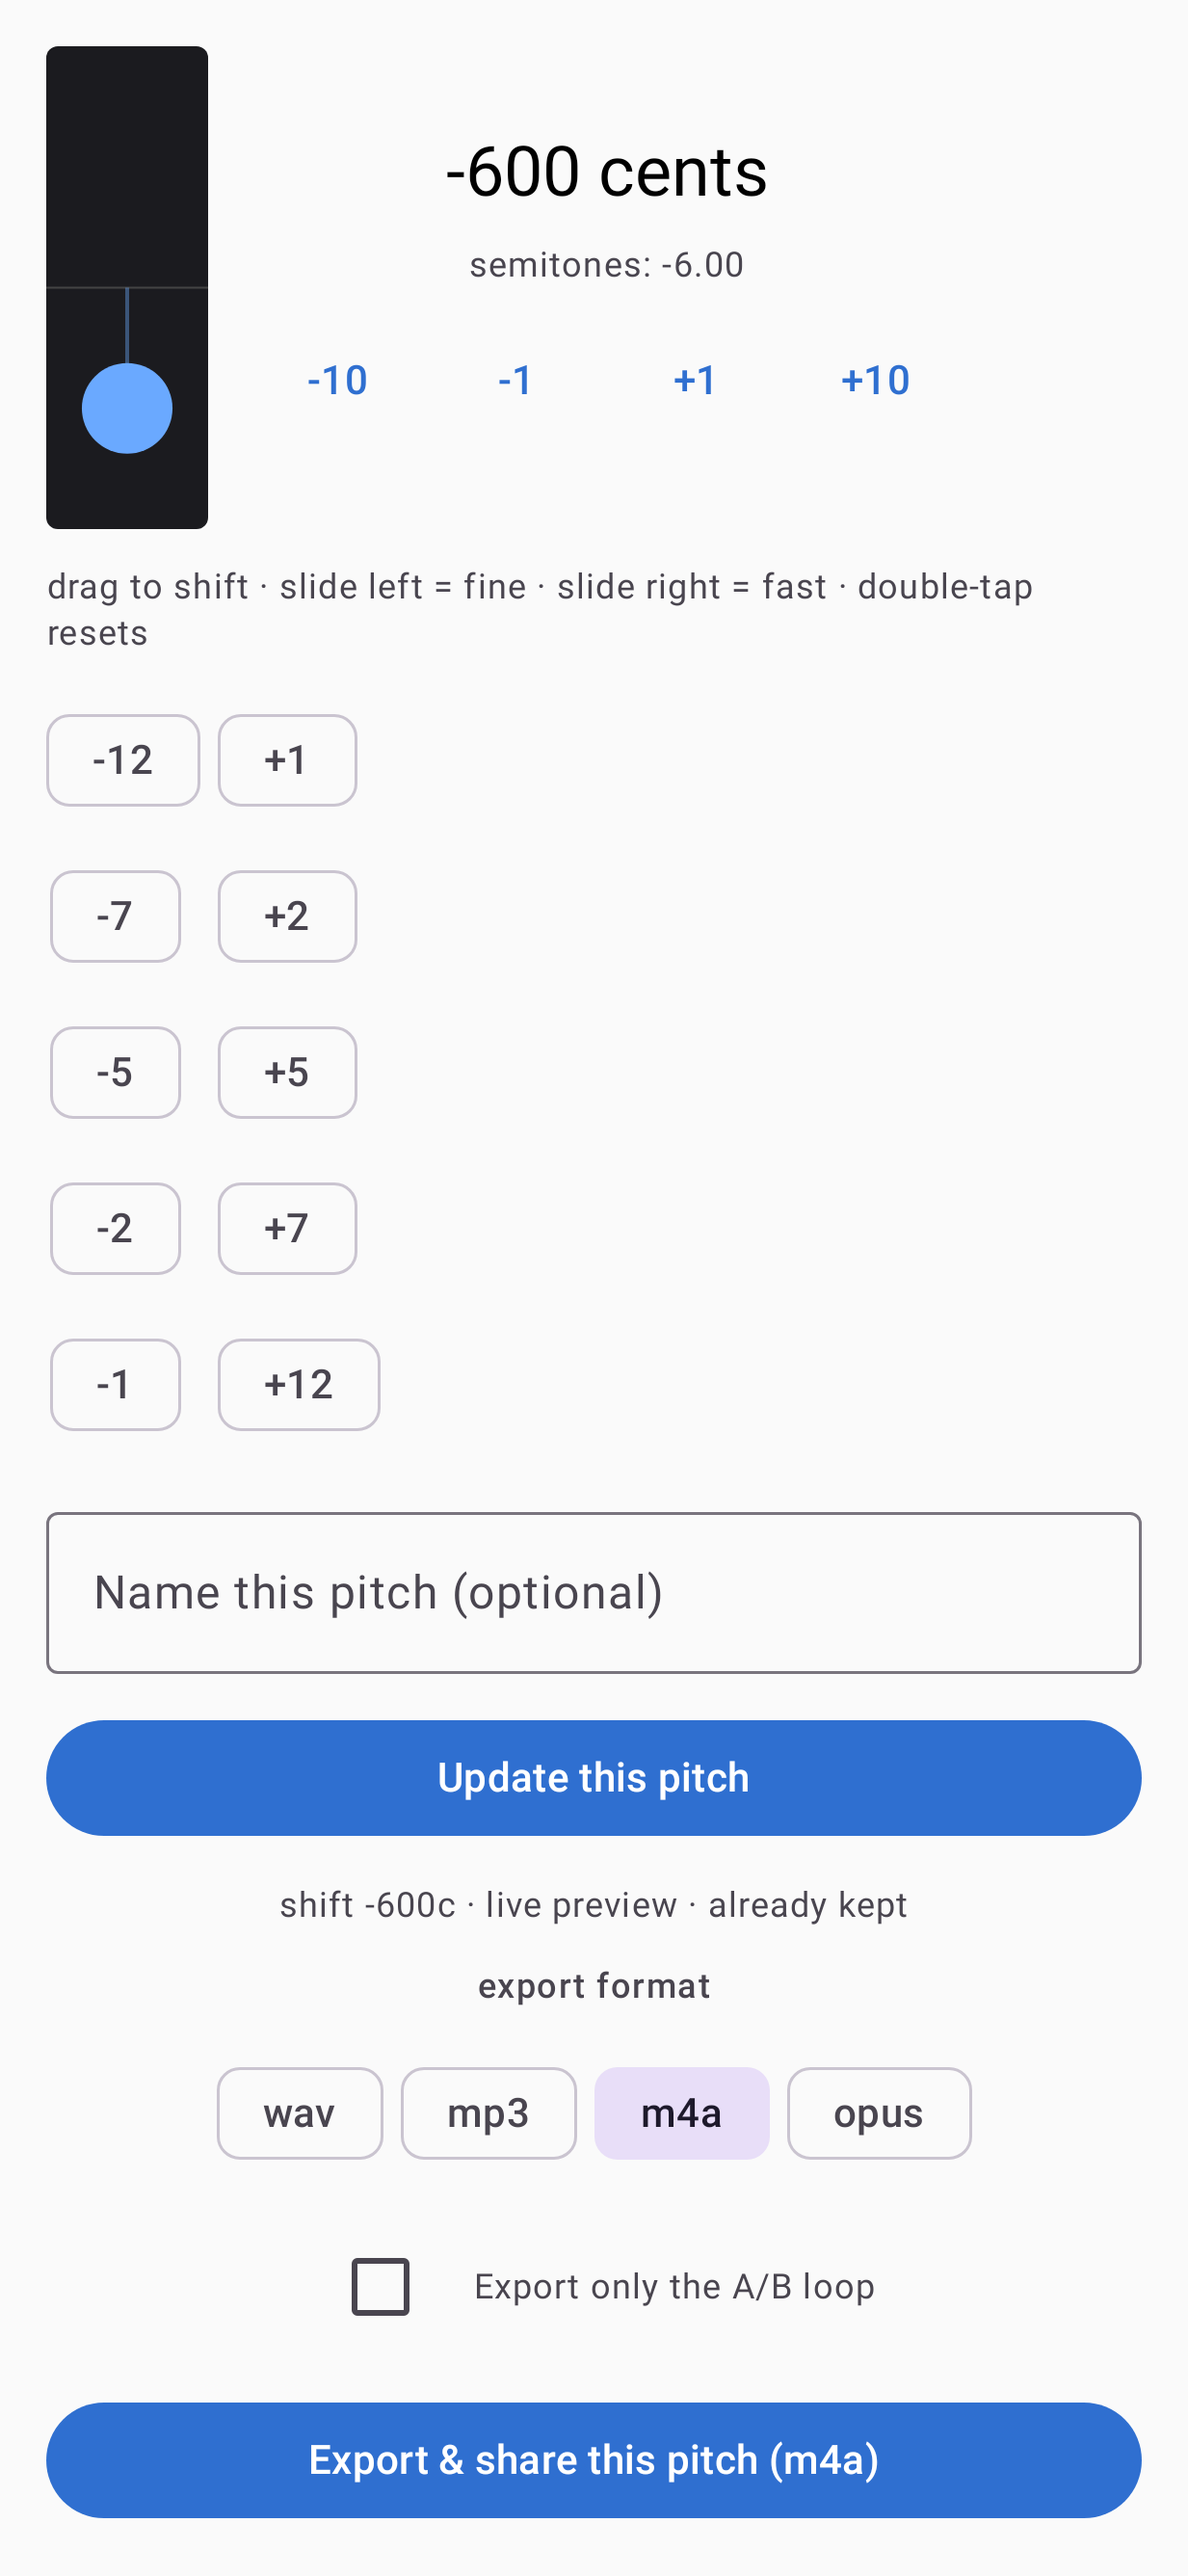
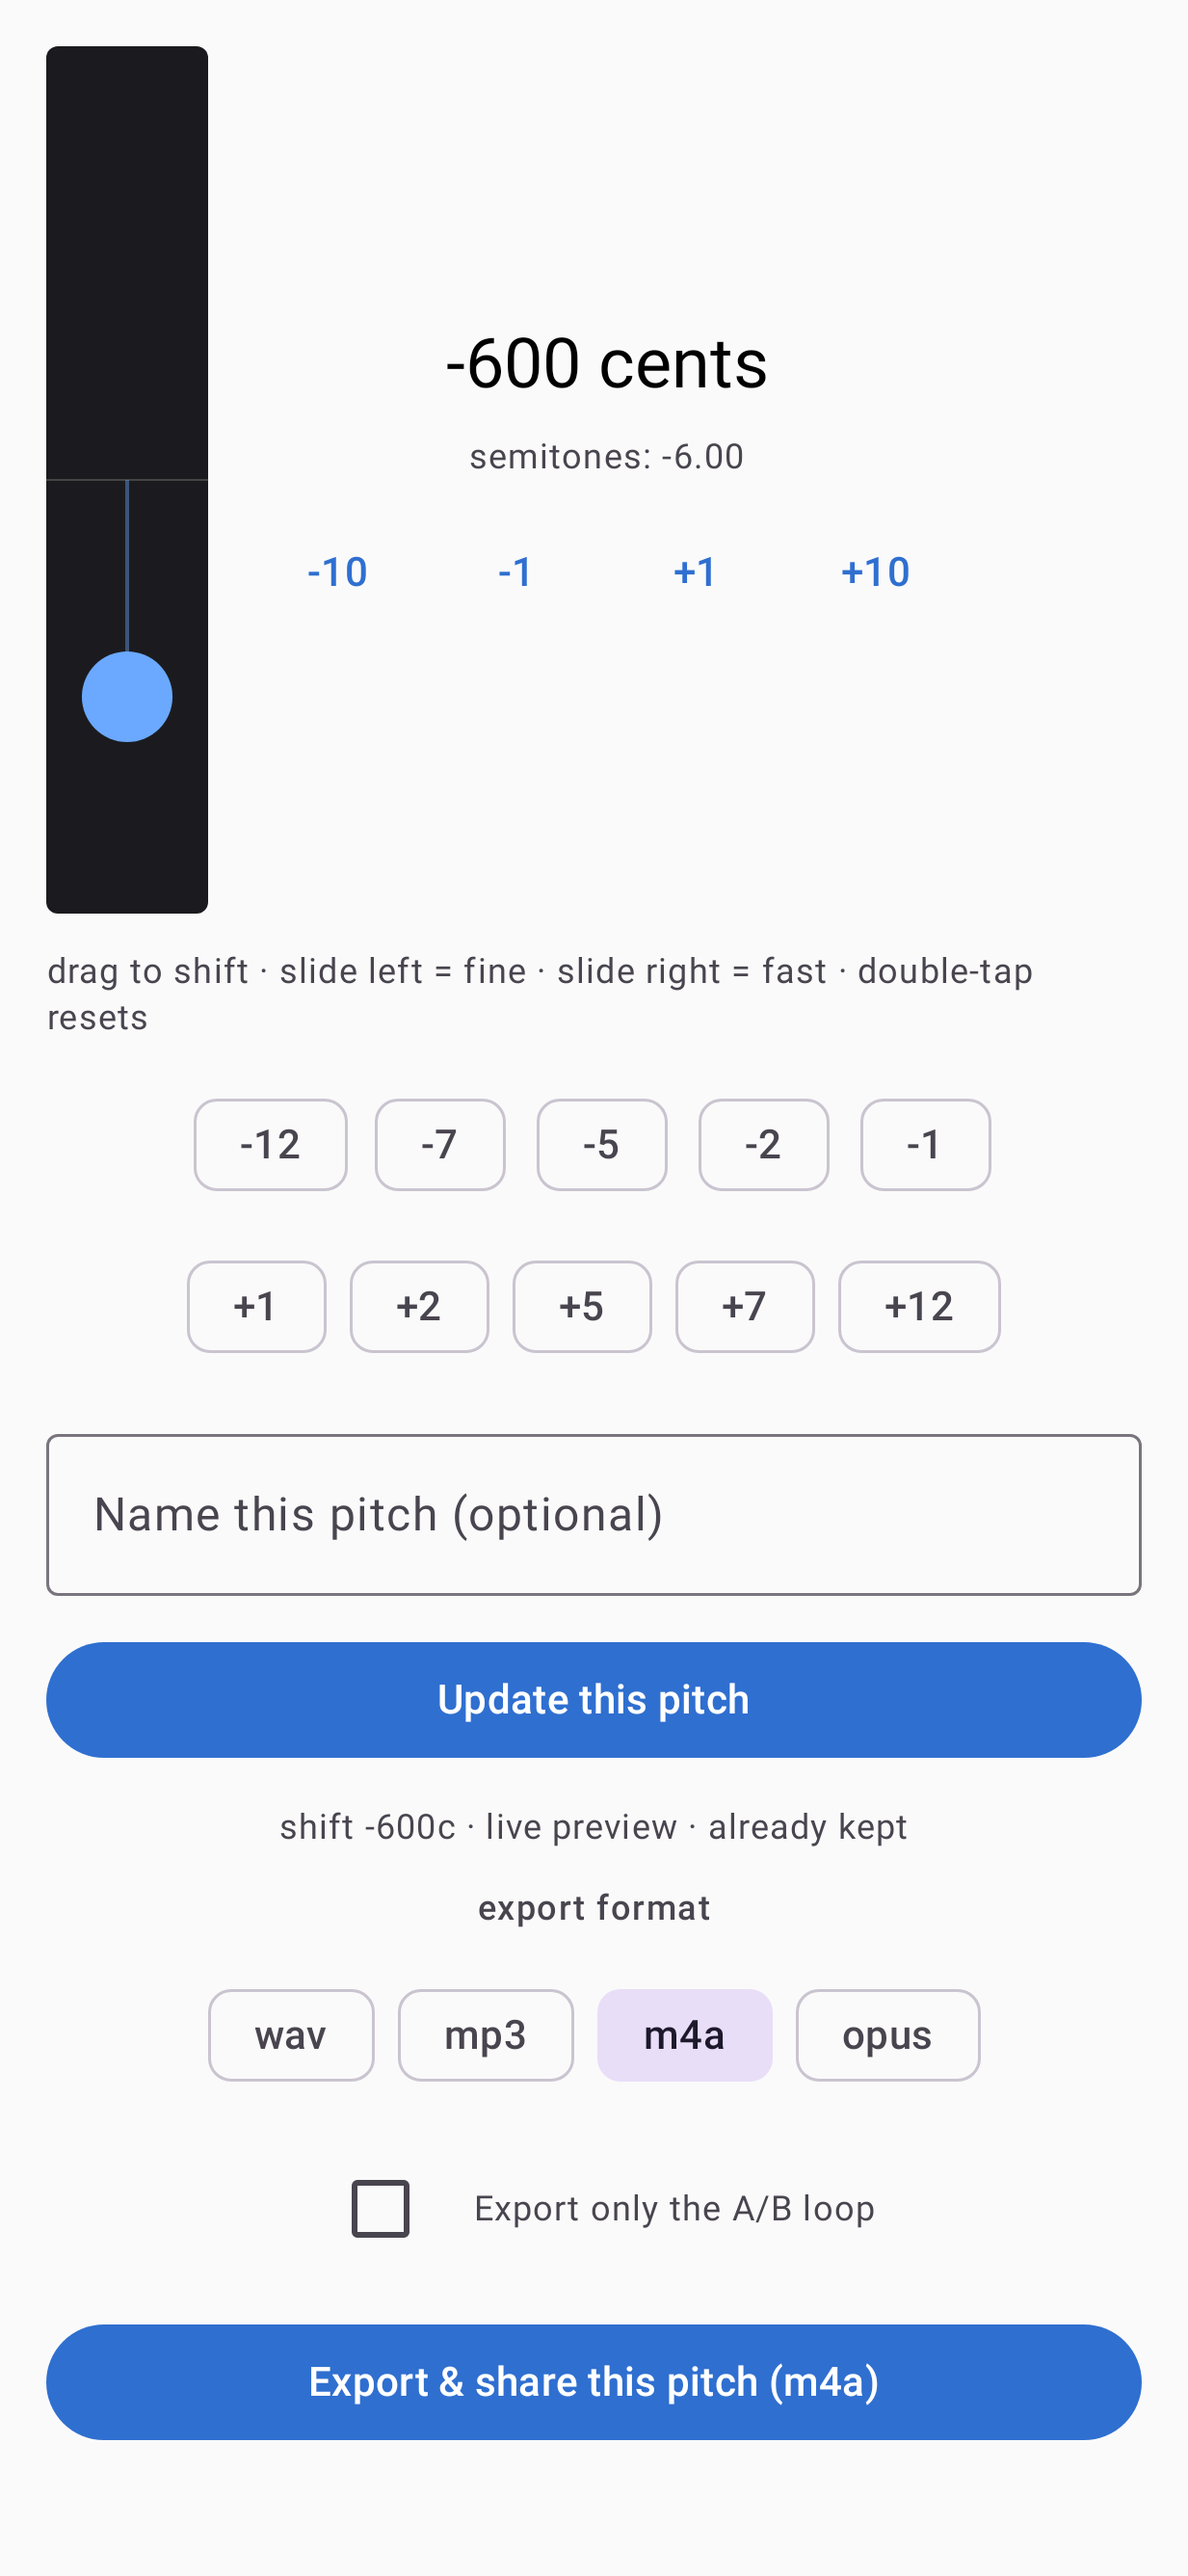
Tighten Pitch Lab preset and format chips into wrapping rows (green)
Presets and export formats now use a centered FlowRow (max 5 per row) so
they form compact grids instead of two sparse columns, and the fader row,
name field, and buttons use fillMaxWidth. Regenerated the Pitch Lab
screenshot.

diff --git a/android/app/src/main/kotlin/pitcher/android/ui/PitchLabScreen.kt b/android/app/src/main/kotlin/pitcher/android/ui/PitchLabScreen.kt
@@ -5,9 +5,11 @@ import androidx.compose.foundation.gestures.detectDragGestures
 import androidx.compose.foundation.gestures.detectTapGestures
 import androidx.compose.foundation.layout.Arrangement
 import androidx.compose.foundation.layout.Column
+import androidx.compose.foundation.layout.ExperimentalLayoutApi
+import androidx.compose.foundation.layout.FlowRow
 import androidx.compose.foundation.layout.Row
 import androidx.compose.foundation.layout.fillMaxSize
-import androidx.compose.foundation.layout.height
+import androidx.compose.foundation.layout.fillMaxWidth
 import androidx.compose.foundation.layout.padding
 import androidx.compose.foundation.layout.size
 import androidx.compose.foundation.rememberScrollState
@@ -42,7 +44,10 @@ import pitcher.core.FaderMath
 
 private val PRESETS = listOf(-1200, -700, -500, -200, -100, 100, 200, 500, 700, 1200)
 
-@OptIn(androidx.compose.material3.ExperimentalMaterial3Api::class)
+@OptIn(
+    androidx.compose.material3.ExperimentalMaterial3Api::class,
+    ExperimentalLayoutApi::class,
+)
 @Composable
 fun PitchLabScreen(
     track: Track?,
@@ -80,11 +85,11 @@ fun PitchLabScreen(
         verticalArrangement = Arrangement.spacedBy(12.dp),
     ) {
         Row(
-            modifier = Modifier.fillMaxSize().weight(1f, fill = false),
+            modifier = Modifier.fillMaxWidth(),
             horizontalArrangement = Arrangement.spacedBy(16.dp),
             verticalAlignment = Alignment.CenterVertically,
         ) {
-            PitchFader(cents = cents, onCents = onCents, modifier = Modifier.size(56.dp, 320.dp))
+            PitchFader(cents = cents, onCents = onCents, modifier = Modifier.size(56.dp, 300.dp))
             Column(
                 horizontalAlignment = Alignment.CenterHorizontally,
                 verticalArrangement = Arrangement.spacedBy(8.dp),
@@ -113,20 +118,18 @@ fun PitchLabScreen(
             color = MaterialTheme.colorScheme.onSurfaceVariant,
         )
 
-        Row(
-            modifier = Modifier.fillMaxSize(),
-            horizontalArrangement = Arrangement.spacedBy(6.dp),
+        FlowRow(
+            modifier = Modifier.fillMaxWidth(),
+            horizontalArrangement = Arrangement.spacedBy(8.dp, Alignment.CenterHorizontally),
+            verticalArrangement = Arrangement.spacedBy(8.dp),
+            maxItemsInEachRow = 5,
         ) {
-            PRESETS.chunked(5).forEach { row ->
-                Column(verticalArrangement = Arrangement.spacedBy(6.dp)) {
-                    row.forEach { p ->
-                        FilterChip(
-                            selected = cents == p,
-                            onClick = { onCents(p) },
-                            label = { Text(if (p > 0) "+${p / 100}" else "${p / 100}") },
-                        )
-                    }
-                }
+            PRESETS.forEach { p ->
+                FilterChip(
+                    selected = cents == p,
+                    onClick = { onCents(p) },
+                    label = { Text(if (p > 0) "+${p / 100}" else "${p / 100}") },
+                )
             }
         }
 
@@ -135,14 +138,14 @@ fun PitchLabScreen(
             onValueChange = { name = it },
             label = { Text("Name this pitch (optional)") },
             singleLine = true,
-            modifier = Modifier.fillMaxSize(),
+            modifier = Modifier.fillMaxWidth(),
         )
         Button(
             onClick = {
                 onKeep(name.trim().ifEmpty { null })
                 name = ""
             },
-            modifier = Modifier.fillMaxSize(),
+            modifier = Modifier.fillMaxWidth(),
         ) {
             Text(if (matching != null) "Update this pitch" else "Keep this pitch as variant")
         }
@@ -157,7 +160,11 @@ fun PitchLabScreen(
             style = MaterialTheme.typography.labelMedium,
             color = MaterialTheme.colorScheme.onSurfaceVariant,
         )
-        Row(horizontalArrangement = Arrangement.spacedBy(6.dp)) {
+        FlowRow(
+            modifier = Modifier.fillMaxWidth(),
+            horizontalArrangement = Arrangement.spacedBy(8.dp, Alignment.CenterHorizontally),
+            verticalArrangement = Arrangement.spacedBy(8.dp),
+        ) {
             ExportFormat.entries.forEach { fmt ->
                 FilterChip(
                     selected = exportFormat == fmt,
@@ -183,7 +190,7 @@ fun PitchLabScreen(
         }
         Button(
             onClick = { onExport(cents, name.trim().ifEmpty { null }) },
-            modifier = Modifier.fillMaxSize(),
+            modifier = Modifier.fillMaxWidth(),
         ) {
             Text("Export & share this pitch (${exportFormat.id})")
         }
